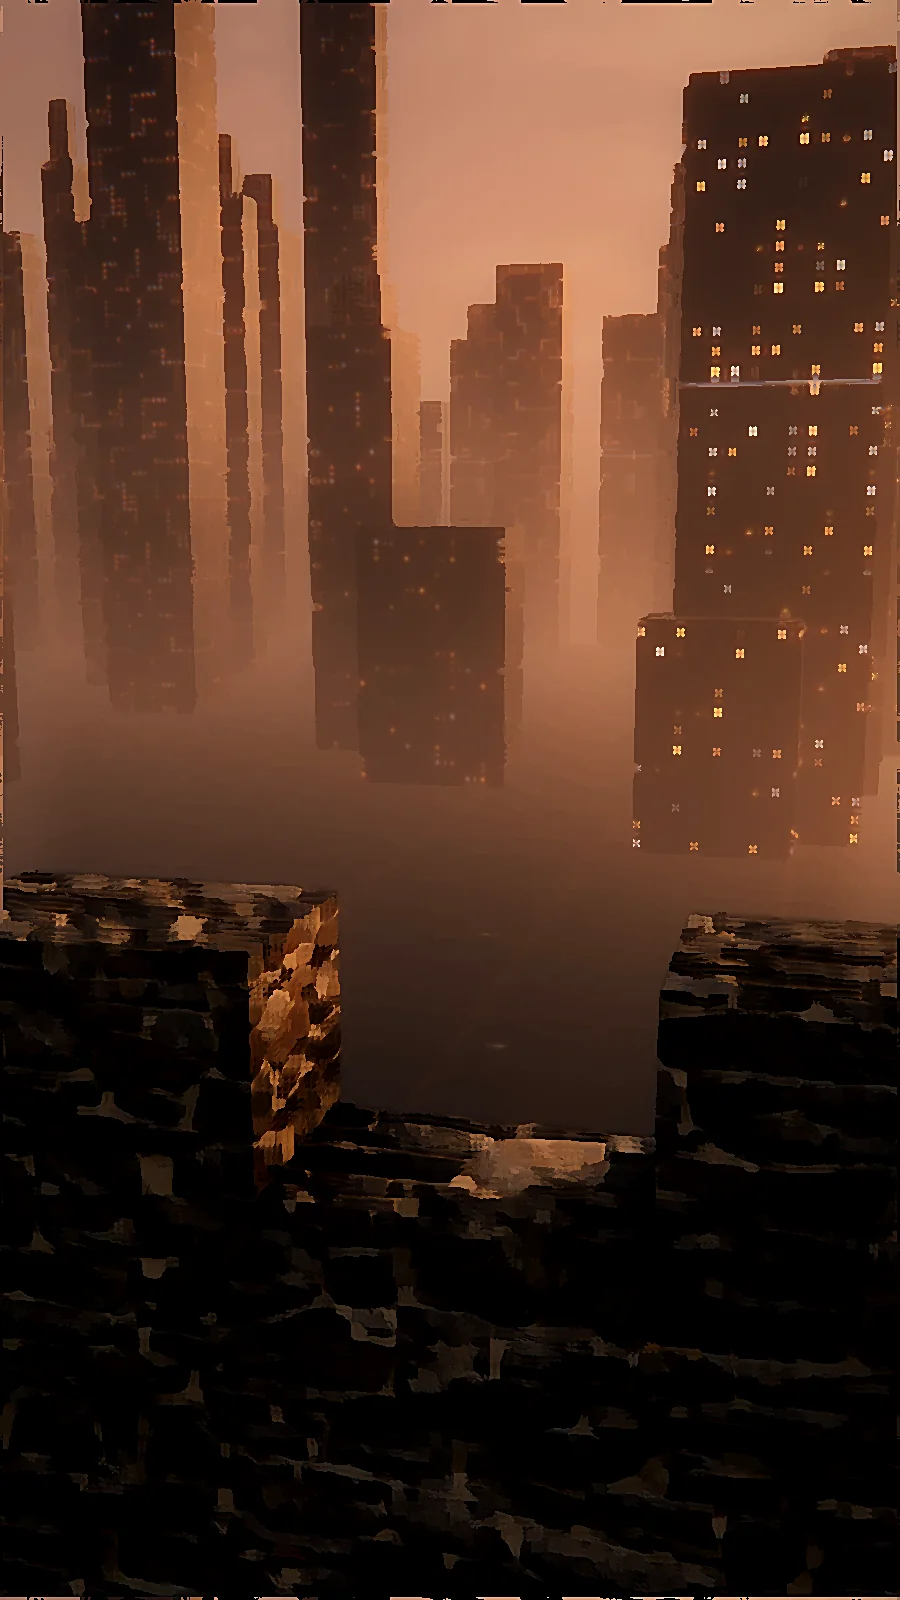
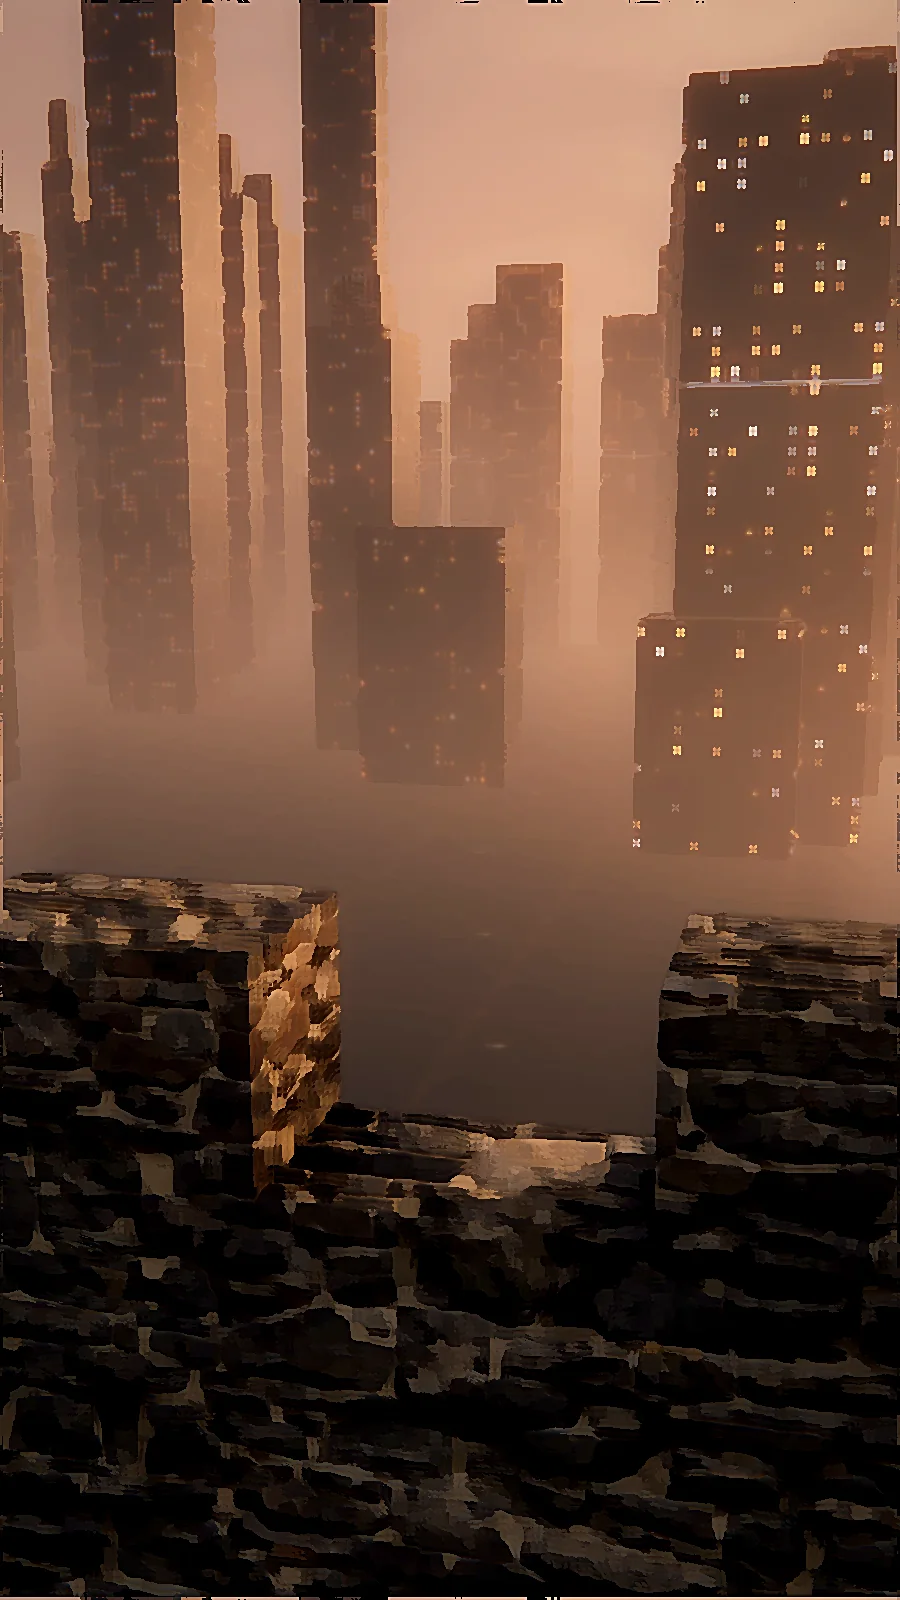
Vesper: illustrated-story plates, pause-safe timers, engine unit tests, glTF fix, softer street glow
Claude-Session: https://claude.ai/code/session_014Z2wUWkM8bthgcjHyRQaWf

diff --git a/medengine/tests/engine.test.js b/medengine/tests/engine.test.js
@@ -1,0 +1,52 @@
+import { test } from 'node:test';
+import assert from 'node:assert/strict';
+import { textToVisemes, visemeTrack, speechDuration, EMOTIONS, VISEMES } from '../src/human/Face.js';
+import { blendPose, completePose, addPose, NEUTRAL } from '../src/human/Rig.js';
+import { parseJSON } from '../src/ai/Claude.js';
+import { FACE_UNITS, toHalf } from '../src/human/Human.js';
+
+test('visemes: closed lips for p/b/m, open for vowels, pauses at punctuation', () => {
+  const v = textToVisemes('Pull me up!').map((x) => x.v);
+  assert.equal(v[0], 'PP');
+  assert.ok(v.includes('U'));
+  assert.ok(v.includes('PP'));
+  assert.equal(v[v.length - 1], 'sil');
+  const tr = visemeTrack('Eleven minutes.', 1.5);
+  assert.ok(Math.abs(tr[tr.length - 1].t1 - 1.5) < 1e-9);
+  for (let i = 1; i < tr.length; i++) assert.ok(tr[i].t0 >= tr[i - 1].t0);
+});
+
+test('speech duration grows with words and pauses', () => {
+  assert.ok(speechDuration('Go.') < speechDuration('It\'s Vesper. It\'s always raining. That isn\'t an answer.'));
+  assert.ok(speechDuration('Hello there', 0.5) > speechDuration('Hello there', 1));
+});
+
+test('emotions and visemes only use real face units', () => {
+  const units = new Set(FACE_UNITS);
+  for (const set of [EMOTIONS, VISEMES]) for (const shape of Object.values(set)) for (const k of Object.keys(shape)) assert.ok(units.has(k), k);
+  assert.equal(FACE_UNITS.length, 52);
+});
+
+test('poses blend, complete and add', () => {
+  const a = { spine: [0, 0, 0], armL: { hand: [0, -0.5, 0] } }, b = { spine: [10, 20, 0], armL: { hand: [0, 0, 0.5] } };
+  const m = blendPose(a, b, 0.5);
+  assert.deepEqual(m.spine, [5, 10, 0]);
+  assert.deepEqual(m.armL.hand, [0, -0.25, 0.25]);
+  const c = completePose({ head: [5, 0, 0] });
+  assert.deepEqual(c.head, [5, 0, 0]);
+  assert.deepEqual(c.legL.foot, NEUTRAL.legL.foot);
+  addPose(c, { head: [1, 2, 3] });
+  assert.deepEqual(c.head, [6, 2, 3]);
+});
+
+test('Claude JSON is read tolerantly', () => {
+  assert.deepEqual(parseJSON('{"a":1}'), { a: 1 });
+  assert.deepEqual(parseJSON('Sure:\n```json\n{"mapped": "ready"}\n```'), { mapped: 'ready' });
+  assert.deepEqual(parseJSON('Here you go {"x": [1,2]} done'), { x: [1, 2] });
+  assert.throws(() => parseJSON('no json here'));
+});
+
+test('half floats', () => {
+  const back = (h) => { const s = h & 0x8000 ? -1 : 1, e = (h >> 10) & 31, m = h & 1023; return e === 0 ? s * m * 2 ** -24 : s * (1 + m / 1024) * 2 ** (e - 15); };
+  for (const v of [0, 0.001, -0.0123, 0.5, 1, -2.25, 0.00006]) assert.ok(Math.abs(back(toHalf(v)) - v) <= Math.abs(v) * 1e-3 + 1e-7, String(v));
+});

diff --git a/games/batman-vesper/src/ui/Overlay.js b/games/batman-vesper/src/ui/Overlay.js
@@ -178,10 +178,12 @@ export class Overlay {
       let timer = null;
       if (spec.timer) {
         const tb = el('ov-timer', C), bar = el('', tb);
-        const t0 = performance.now();
+        let elapsed = 0, lastT = performance.now();
         timer = setInterval(() => {
-          if (input && document.activeElement === input && input.value) return;   // typing pauses the clock
-          const k = 1 - (performance.now() - t0) / (spec.timer * 1000);
+          const now = performance.now(), step = now - lastT; lastT = now;
+          if (this.paused || (input && document.activeElement === input && input.value)) return;   // pause and typing stop the clock
+          elapsed += step;
+          const k = 1 - elapsed / (spec.timer * 1000);
           bar.style.width = Math.max(0, k * 100) + '%';
           if (k <= 0) finish({ id: spec.default ?? spec.options[0].id, timedOut: true });
         }, 50);
@@ -221,8 +223,12 @@ export class Overlay {
       // touch/click: tapping the prompt counts
       items.forEach((d, k) => { d.style.pointerEvents = 'auto'; d.onclick = () => { if (k === i) onKey({ key: keys[i] === 'SPACE' ? ' ' : keys[i], code: keys[i] === 'SPACE' ? 'Space' : '', preventDefault() {} }); }; });
       let raf;
+      let lastT = performance.now();
       const tick = () => {
-        const k = (performance.now() - t0) / (window * 1000);
+        const now = performance.now();
+        if (this.paused) t0 += now - lastT;
+        lastT = now;
+        const k = (now - t0) / (window * 1000);
         const ring = items[i]?.querySelector('.ring');
         if (ring) ring.style.strokeDashoffset = String(251.3 * Math.min(1, k));
         if (k >= 1) { items[i]?.classList.add('miss'); finish(false); return; }

diff --git a/games/batman-vesper/src/sets/cathedral.js b/games/batman-vesper/src/sets/cathedral.js
@@ -19,9 +19,13 @@ export function streetGlow({ size = 1400, y = -60, spacing = 70 } = {}) {
     x.fillRect(0, i + Math.random() * 2, 1024, avenue ? 1.4 : 0.8);
     x.fillRect(i + Math.random() * 2, 0, avenue ? 1.4 : 0.8, 1024);
   }
+  // soften: streets are pools of light seen through rain, not lines
+  const soft = document.createElement('canvas'); soft.width = soft.height = 1024;
+  const sx = soft.getContext('2d'); sx.filter = 'blur(3px)'; sx.drawImage(c, 0, 0); sx.filter = 'none'; sx.globalAlpha = 0.6; sx.drawImage(c, 0, 0);
+  x.clearRect(0, 0, 1024, 1024); x.drawImage(soft, 0, 0);
   for (let k = 0; k < 900; k++) { x.fillStyle = Math.random() < 0.5 ? 'rgba(255,240,220,0.9)' : 'rgba(255,40,30,0.9)'; x.fillRect(Math.random() * 1024, Math.random() * 1024, 1.5, 1.5); }
   const t = new CanvasTexture(c); t.colorSpace = SRGBColorSpace;
-  const m = new MeshStandardMaterial({ color: 0x050506, roughness: 0.3, emissive: new Color(1, 1, 1), emissiveMap: t, emissiveIntensity: 0.9 });
+  const m = new MeshStandardMaterial({ color: 0x050506, roughness: 0.3, emissive: new Color(1, 1, 1), emissiveMap: t, emissiveIntensity: 0.45 });
   m.userData.puddles = false;
   const mesh = new Mesh(new PlaneGeometry(size, size), m);
   mesh.rotation.x = -Math.PI / 2; mesh.position.y = y;

diff --git a/games/batman-vesper/src/main.js b/games/batman-vesper/src/main.js
@@ -78,6 +78,7 @@ async function play(fromChapter = null, resume = null) {
 }
 
 async function afterEpisode() {
+  if (auto) return;   // the test tools read the result; no menus
   for (;;) {
     const pick = auto ? 'title' : await T.ui.flowchart(runner, CHAPTERS, [
       { id: 'night2', label: 'Continue: Night Two', primary: true },
@@ -140,11 +141,12 @@ addEventListener('keydown', (e) => {
   if (e.key === 'Escape' && runner && !$('#settings-panel').classList.contains('on')) {
     const p = $('#pause');
     p.classList.toggle('on');
-    T.timeScale = p.classList.contains('on') ? 0.0001 : 1;
+    T.paused = T.ui.paused = p.classList.contains('on');
+    T.timeScale = T.paused ? 0.0001 : 1;
   }
   if (e.key === 'F3') { e.preventDefault(); $('#stats').classList.toggle('on'); }
 });
-$('#resume').onclick = () => { $('#pause').classList.remove('on'); T.timeScale = 1; };
+$('#resume').onclick = () => { $('#pause').classList.remove('on'); T.paused = T.ui.paused = false; T.timeScale = 1; };
 $('#pause-settings').onclick = () => openSettings();
 $('#pause-quit').onclick = () => location.reload();
 setInterval(() => {

diff --git a/games/batman-vesper/src/theatre3d/Theatre3D.js b/games/batman-vesper/src/theatre3d/Theatre3D.js
@@ -224,7 +224,7 @@ export class Theatre3D {
     this.timeScale = 0.6;
     this.audio?.sfx('choice');
     const r = await this.ui.choose(spec);
-    this.timeScale = 1;
+    this.timeScale = this.paused ? 0.0001 : 1;
     this.audio?.sfx('click');
     return r;
   }
@@ -234,7 +234,7 @@ export class Theatre3D {
     this.timeScale = 0.3;
     this.audio?.sfx('heartbeat');
     const ok = await this.ui.qte(spec, (i, good) => this.audio?.sfx(good ? 'success' : 'fail'));
-    this.timeScale = 1;
+    this.timeScale = this.paused ? 0.0001 : 1;
     return ok;
   }
 

diff --git a/games/batman-vesper/src/story2d.js b/games/batman-vesper/src/story2d.js
@@ -30,6 +30,7 @@ async function begin() {
   T.onMenu = () => T._note(`The code ${R.state.code} · Nadia ${R.state.nadia} · Rook ${R.state.rook}`);
   await R.play(P.get('chapter'));
   window.__ended = true;
+  if (P.get('auto') === '1') return;
   const more = await T.choose({ prompt: 'The night is over. Vesper is not.', options: [{ id: 'n2', label: 'Night Two (written live by Claude)' }, { id: 'again', label: 'Start again' }] });
   if (more.id === 'n2') await R.continueStory();
   location.reload();

diff --git a/games/batman-vesper/tools/paint.py b/games/batman-vesper/tools/paint.py
@@ -71,6 +71,10 @@ def portrait(black, white, out):
 
 def plate(src, out):
     rgb = np.asarray(Image.open(src).convert('RGB')).astype(np.float32) / 255
+    # illustrations keep their shadows readable: lift the darks (gamma), keep the highlights
+    lum = rgb.mean(axis=2, keepdims=True)
+    gamma = 1.0 + 0.9 * np.clip(0.35 - lum.mean(), 0, 0.35) / 0.35
+    rgb = np.power(rgb, 1 / gamma) * 0.97 + 0.012
     painted = kuwahara(rgb, 6)
     im = finish(Image.fromarray((painted * 255).astype(np.uint8)), sat=1.12, contrast=1.08, sharp=80)
     im.save(out, 'WEBP', quality=84, method=6)

diff --git a/README.md b/README.md
@@ -1,3 +1,12 @@
+# ForgeEngine
+
+> **New:** [`medengine/`](medengine/README.md) — **Med Engine 2**, the WebGL2 engine of the ForgeEngine
+> games as a standalone package (digital humans, tiled lights, skin scattering, rain, a film camera,
+> Claude). First game on it: [`games/batman-vesper/`](games/batman-vesper/README.md) — **BATMAN: VESPER**,
+> an interactive film (and its illustrated-story twin) where Claude plays the people you talk to.
+
+---
+
 # Forge Engine - Medieval Life Simulation
 
 ## Overview
